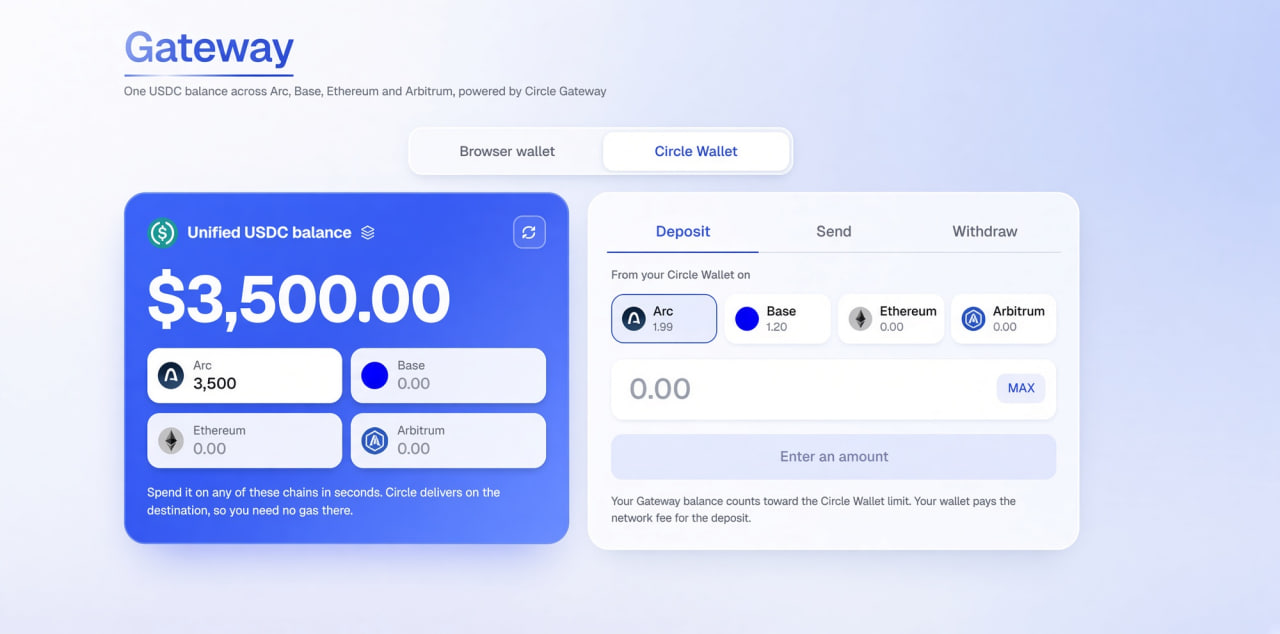
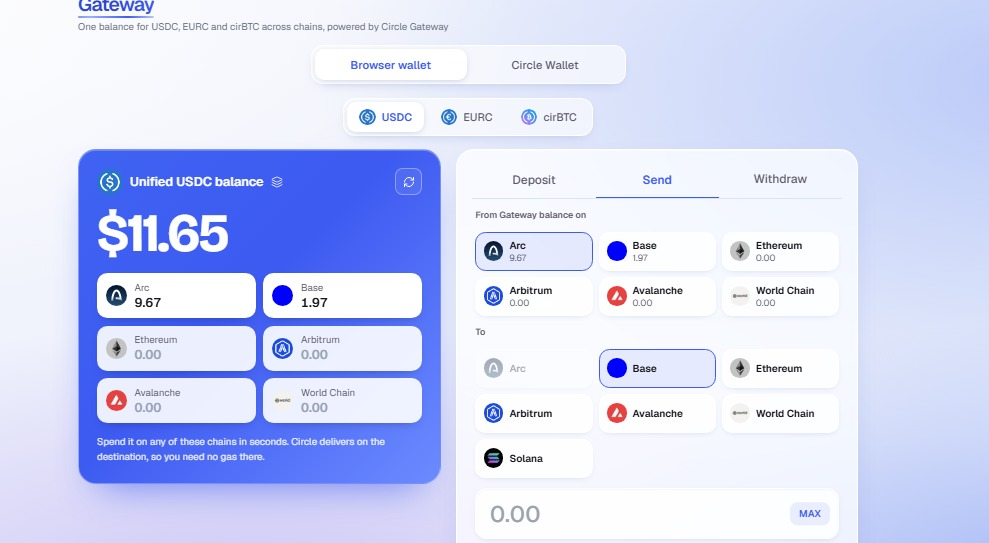
FlowFi update

diff --git a/public/deck.html b/public/deck.html
@@ -195,18 +195,19 @@
     <div class="cover-body">
       <div class="eyebrow"><span class="dot"></span> LIVE ON ARC MAINNET</div>
       <h1 class="hero-title">Your dollars on Arc.<br><span class="accent-word">All in one flow.</span></h1>
-      <p class="lede" style="max-width:640px; font-size:17px;">Bring dollars onto Arc without gas, hold USDC, EURC and cirBTC, move them across chains with one balance, and put them to work with Earn & Borrow. Live on Arc Mainnet.</p>
+      <p class="lede" style="max-width:640px; font-size:17px;">Bring dollars onto Arc without gas, hold USDC, EURC and cirBTC, move them across chains with one balance, swap at the best price, and put them to work with Earn & Borrow. Live on Arc Mainnet.</p>
       <div class="cover-tags">
-        <div class="tag">Gasless USDC bridge</div>
+        <div class="tag">Circle Bridge Kit</div>
         <div class="tag">EURC &amp; cirBTC</div>
         <div class="tag">Circle Gateway</div>
+        <div class="tag">USDC from Sui</div>
         <div class="tag">Email wallet</div>
         <div class="tag">Earn &amp; Borrow</div>
         <div class="tag">Live on Arc Mainnet</div>
       </div>
     </div>
     <div class="cover-foot">
-      <div style="font-family:'JetBrains Mono',monospace; font-size:12px; color:var(--ink-soft);">Real funds &middot; Built on Circle &amp; Morpho</div>
+      <div style="font-family:'JetBrains Mono',monospace; font-size:12px; color:var(--ink-soft);">Real funds &middot; Built on Circle, Morpho &amp; Aave</div>
       <div class="cover-meta">
         <div><b>Kazım</b> — sekuler.eth</div>
         <div>github.com/sekuler/flowfi</div>
@@ -255,15 +256,15 @@
 
   <section class="slide">
     <div class="eyebrow"><span class="dot"></span> 03 &middot; CROSS-CHAIN</div>
-    <h2 class="slide-title">Bridge: gasless USDC, native EURC &amp; cirBTC, any token via LI.FI.</h2>
+    <h2 class="slide-title">Bridge: native USDC, EURC &amp; cirBTC via Circle Bridge Kit, USDC from Sui, any token via LI.FI.</h2>
     <div class="product-slide">
       <div class="panel-left">
-        <p class="lede">Native USDC uses Circle CCTP V2 with the Forwarding Service: you sign once on the source chain and Circle mints on Arc, so no Arc gas is needed. EURC and cirBTC arrive natively through CCTP for non-USDC, and LI.FI covers everything else.</p>
+        <p class="lede">Native USDC, EURC and cirBTC move to Arc through Circle's Bridge Kit (CCTP V2). With the Forwarding Service, Circle completes the mint on Arc, so no Arc gas is needed. USDC from Sui arrives natively over CCTP V2, and LI.FI covers any other token, including Solana and Bitcoin wallets.</p>
         <div class="callout">
           <span class="ic">◆</span>
           <p><b>Safe to interrupt:</b> a transfer that stops after the burn resumes without burning twice, checked against Circle's usedNonces onchain.</p>
         </div>
-        <div class="stat-row"><div class="stat"><div class="v">1</div><div class="l">Signature to reach Arc</div></div><div class="stat"><div class="v">0</div><div class="l">Arc gas needed</div></div></div>
+        <div class="stat-row"><div class="stat"><div class="v">4</div><div class="l">Bridge routes</div></div><div class="stat"><div class="v">0</div><div class="l">Arc gas needed</div></div></div>
       </div>
       <div class="browser-frame">
         <div class="browser-bar"><div class="dots"><span></span><span></span><span></span></div><div class="url">flowfi.finance</div></div>
@@ -274,15 +275,15 @@
 
   <section class="slide">
     <div class="eyebrow"><span class="dot"></span> 04 &middot; CORE TRADING</div>
-    <h2 class="slide-title">Swap: same-chain on Arc, routed through LI.FI.</h2>
+    <h2 class="slide-title">Swap: best price on Arc across KyberSwap, De¹ and LI.FI.</h2>
     <div class="product-slide">
       <div class="panel-left">
-        <p class="lede">Swap opens on USDC to EURC and lists the tokens LI.FI supports on Arc as quick picks. FlowFi routes to real, deep liquidity instead of running its own pools.</p>
+        <p class="lede">Best price compares quotes from KyberSwap, De¹ and LI.FI and picks the best output, checked onchain before you sign. Any token mode opens full LI.FI routing. FlowFi routes to real, deep liquidity instead of running its own pools.</p>
         <div class="callout">
           <span class="ic">◆</span>
           <p><b>No FlowFi contract on the path:</b> the route and the swap run on established infrastructure, and you sign in your own wallet.</p>
         </div>
-        <div class="stat-row"><div class="stat"><div class="v">USDC → EURC</div><div class="l">Default pair</div></div><div class="stat"><div class="v">0</div><div class="l">FlowFi fees</div></div></div>
+        <div class="stat-row"><div class="stat"><div class="v">3</div><div class="l">Price sources compared</div></div><div class="stat"><div class="v">0</div><div class="l">FlowFi fees</div></div></div>
       </div>
       <div class="browser-frame">
         <div class="browser-bar"><div class="dots"><span></span><span></span><span></span></div><div class="url">flowfi.finance</div></div>
@@ -293,15 +294,15 @@
 
   <section class="slide">
     <div class="eyebrow"><span class="dot"></span> 05 &middot; PUT DOLLARS TO WORK</div>
-    <h2 class="slide-title">Earn &amp; Borrow: yield on USDC and EURC, loans against cirBTC.</h2>
+    <h2 class="slide-title">Earn &amp; Borrow: Morpho and Aave on Arc, loans against cirBTC.</h2>
     <div class="product-slide">
       <div class="panel-left">
-        <p class="lede">Deposit USDC or EURC into curated Morpho vaults (Galaxy, Keyrock, Steakhouse, Gauntlet), or borrow USDC or EURC against cirBTC on Morpho markets on Arc, with live APY, LTV and liquidation price on screen.</p>
+        <p class="lede">Deposit USDC or EURC into curated Morpho vaults (Bitwise, Galaxy, Keyrock and more) or the Aave V4 USDC market, compare them side by side, or borrow USDC or EURC against cirBTC on Morpho markets on Arc, with live APY, LTV and liquidation price on screen.</p>
         <div class="callout">
           <span class="ic">◆</span>
           <p><b>Guardrails built in:</b> markets liquidate at 86% LTV; FlowFi caps new borrows at 70%, and every call is simulated before your wallet opens.</p>
         </div>
-        <div class="stat-row"><div class="stat"><div class="v">4</div><div class="l">Curated vaults</div></div><div class="stat"><div class="v">70%</div><div class="l">Safe LTV cap</div></div></div>
+        <div class="stat-row"><div class="stat"><div class="v">2</div><div class="l">Protocols: Morpho &amp; Aave</div></div><div class="stat"><div class="v">70%</div><div class="l">Safe LTV cap</div></div></div>
       </div>
       <div class="browser-frame">
         <div class="browser-bar"><div class="dots"><span></span><span></span><span></span></div><div class="url">flowfi.finance</div></div>
@@ -331,15 +332,15 @@
 
   <section class="slide">
     <div class="eyebrow"><span class="dot"></span> 07 &middot; ONE BALANCE</div>
-    <h2 class="slide-title">Gateway: one USDC balance across Arc, Base, Ethereum and Arbitrum.</h2>
+    <h2 class="slide-title">Gateway: one balance for USDC, EURC and cirBTC across six chains.</h2>
     <div class="product-slide">
       <div class="panel-left">
-        <p class="lede">Deposit USDC on any supported chain and spend it on any other in seconds. Transfers use an EIP-712 burn intent and Circle's Forwarding Service, so no gas is needed on the destination.</p>
+        <p class="lede">Built on Circle's Unified Balance Kit. Deposit on Arc, Base, Ethereum, Arbitrum, Avalanche or World Chain and send to any of them, or to Solana, in seconds. Circle's Forwarding Service delivers on the destination, so no gas is needed there.</p>
         <div class="callout">
           <span class="ic">◆</span>
           <p><b>Works with both wallets:</b> browser wallets sign the intent themselves; the Circle Wallet signs it server-side, limited to Gateway burn intents only.</p>
         </div>
-        <div class="stat-row"><div class="stat"><div class="v">4</div><div class="l">Chains, one balance</div></div><div class="stat"><div class="v">Seconds</div><div class="l">Deposits credited on Arc</div></div></div>
+        <div class="stat-row"><div class="stat"><div class="v">3</div><div class="l">Assets: USDC, EURC, cirBTC</div></div><div class="stat"><div class="v">6</div><div class="l">Chains, one balance</div></div></div>
       </div>
       <div class="browser-frame">
         <div class="browser-bar"><div class="dots"><span></span><span></span><span></span></div><div class="url">flowfi.finance</div></div>
@@ -389,17 +390,16 @@
   <!-- CLOSING -->
   <section class="slide">
     <div class="eyebrow"><span class="dot"></span> 10 &middot; SUMMARY</div>
-    <h2 class="slide-title" style="max-width:100%;">Built on Arc, on Circle and Morpho rails.</h2>
+    <h2 class="slide-title" style="max-width:100%;">Built on Arc, on Circle, Morpho and Aave rails.</h2>
     <div class="closing-grid">
       <div>
-        <p class="lede" style="max-width:100%;">FlowFi is live on Arc Mainnet with real funds. Everything you saw is the running product, and every claim can be checked on-chain.</p>
+        <p class="lede" style="max-width:100%;">FlowFi is live on Arc Mainnet with real funds. Everything you saw is the running product, and every claim can be checked onchain.</p>
         <div class="stack-list">
-          <div class="stack-item"><div class="n">01</div><p><b>Bridge</b>: gasless USDC via CCTP + Forwarding, native EURC &amp; cirBTC, any token via LI.FI</p></div>
-          <div class="stack-item"><div class="n">02</div><p><b>Swap</b>: same-chain on Arc through LI.FI</p></div>
-          <div class="stack-item"><div class="n">03</div><p><b>Earn &amp; Borrow</b>: curated Morpho vaults and cirBTC-backed loans</p></div>
+          <div class="stack-item"><div class="n">01</div><p><b>Bridge</b>: native USDC, EURC &amp; cirBTC via Circle Bridge Kit + Forwarding, USDC from Sui via CCTP V2, any token via LI.FI</p></div>
+          <div class="stack-item"><div class="n">02</div><p><b>Swap</b>: best price on Arc across KyberSwap, De¹ and LI.FI</p></div>
+          <div class="stack-item"><div class="n">03</div><p><b>Earn &amp; Borrow</b>: curated Morpho vaults, Aave V4 and cirBTC-backed loans</p></div>
           <div class="stack-item"><div class="n">04</div><p><b>Wallets</b>: browser wallets, WalletConnect, and an email-based Circle Wallet</p></div>
-          <div class="stack-item"><div class="n">05</div><p><b>Gateway</b>: one USDC balance across four chains</p></div>
-          <div class="stack-item"><div class="n">06</div><p><b>Testnet showcase</b>: AI Copilot actions, Token Launch and Liquidity Pools</p></div>
+          <div class="stack-item"><div class="n">05</div><p><b>Gateway</b>: one balance for USDC, EURC and cirBTC across six chains</p></div>
         </div>
       </div>
       <div class="link-card">
